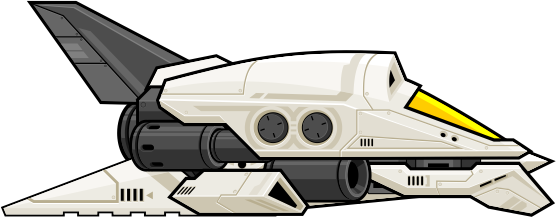
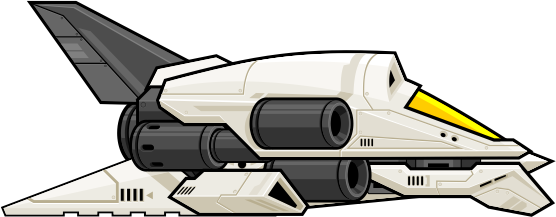
modificato player iniziale

Changed region(s): [[0.4281, 0.4424, 0.6421, 0.6912]]

diff --git a/src/scenes/keys_controller.ts b/src/scenes/keys_controller.ts
@@ -103,9 +103,9 @@ export default class KeysController extends Scene {
     if (Phaser.Input.Keyboard.JustDown(this.keys.l) && debug) {
       player.changeWeaponType(1);
     }
-    if (Phaser.Input.Keyboard.JustDown(this.keys.k) && debug) {
-      player.changeWeaponType(2);
-    }
+    // if (Phaser.Input.Keyboard.JustDown(this.keys.k) && debug) {
+    //   player.changeWeaponType(2);
+    // }
     if (Phaser.Input.Keyboard.JustDown(this.keys.j) && debug) {
       player.changeWeaponType(0);
     }

diff --git a/src/sprites/player/player-weapon-group.ts b/src/sprites/player/player-weapon-group.ts
@@ -9,7 +9,7 @@ export default class WeaponGroup extends Phaser.Physics.Arcade.Group {
     this.createMultiple({
       frameQuantity: 10,
       setXY: {x: -50, y: -50},
-      key: WEAPON_PLAYER_TYPES.DEFAULT.TEXTURE_NAME,
+      key: WEAPON_PLAYER_TYPES.MISSILI.TEXTURE_NAME,
       active: false,
       visible: false,
       classType: PlayerWeapon,
